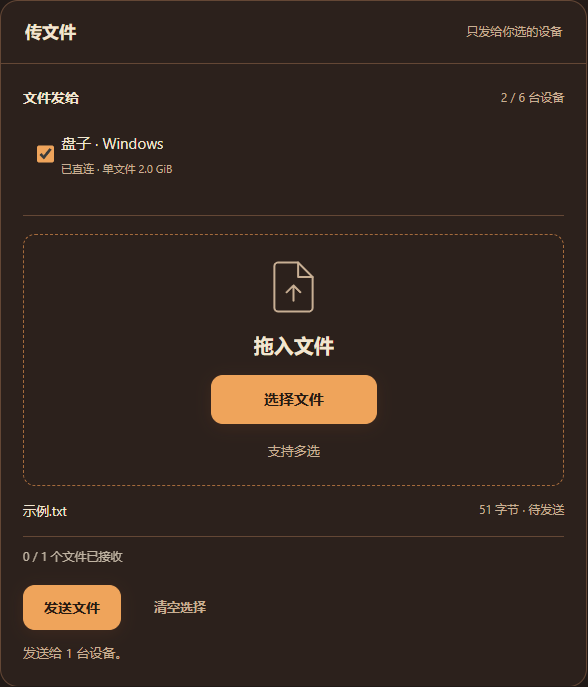
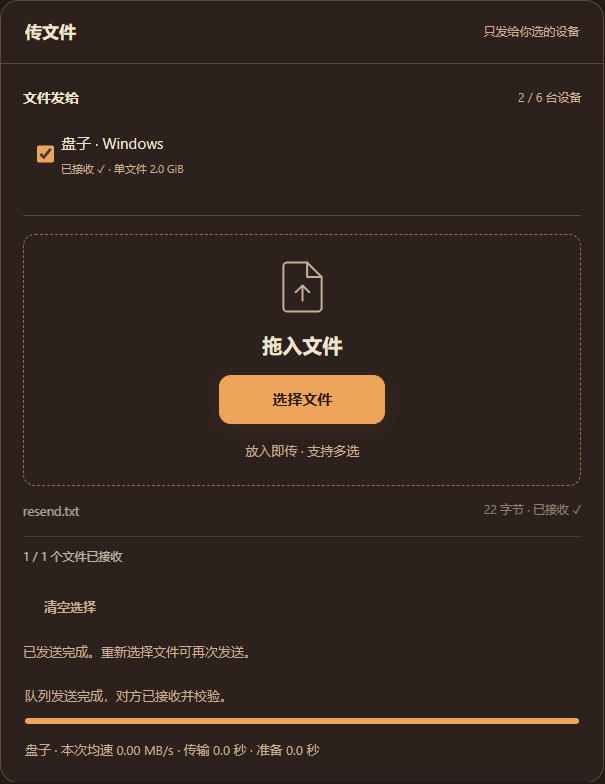
Publish automatic file sending and LAN homepage copy

diff --git a/index.html b/index.html
@@ -6,7 +6,7 @@
   <meta name="referrer" content="no-referrer"><meta charset="UTF-8"><meta name="viewport" content="width=device-width, initial-scale=1">
   <meta name="description" content="热热传：同一网络下，打开网页即可互传文件和文字。无需安装或注册，支持多设备配对。">
   <title>热热传 · 局域网文件互传</title><link rel="canonical" href="https://rerechuan.com/"><link rel="icon" href="./rere-symbol.svg">
-  <link rel="stylesheet" href="./workspace.css"><link rel="stylesheet" href="./ember.css"><link rel="stylesheet" href="./workspace-v8.css?v=20261029-pages"><script type="module" src="./workspace.js?v=0.8.1-pages1"></script>
+  <link rel="stylesheet" href="./workspace.css"><link rel="stylesheet" href="./ember.css"><link rel="stylesheet" href="./workspace-v8.css?v=20261029-autosend"><script type="module" src="./workspace.js?v=0.8.1-autosend1"></script>
 </head>
 <body data-theme="ember">
   <svg class="icon-definitions" aria-hidden="true" xmlns="http://www.w3.org/2000/svg"><defs>
@@ -18,7 +18,7 @@
   <div class="app-shell">
     <header class="topbar"><a class="brand" href="./"><img class="logo-dark" src="./rere-logo-dark.svg" alt="热热传" width="147" height="48"><img class="logo-light" src="./rere-logo-light.svg" alt="热热传" width="147" height="48"></a><div class="design-controls" hidden><a href="./styles.html">五种风格</a><label for="theme-select" class="sr-only">页面风格</label><select id="theme-select"><option value="warm">01 亲切工具</option><option value="minimal">02 极简白</option><option value="studio">03 创作工作台</option><option value="privacy">04 安静深色</option><option value="bold">05 鲜明品牌</option><option value="ember">炉火暖色 · 试稿</option></select></div><a class="site-help" href="./how-to-use.html" target="_blank" rel="noopener">使用说明</a></header>
     <main>
-      <section class="intro"><h1><span>创建房间，</span><span>互传文件和文字。</span></h1><canvas id="transfer-mark" class="transfer-mark" width="272" height="112" aria-hidden="true"></canvas></section>
+      <section class="intro"><h1><span>同一局域网，</span><span>文件直接传。</span></h1><p>局域网内传文件，不耗移动数据流量，不上传服务器。<br>打开网页和设备配对仍需联网。</p><canvas id="transfer-mark" class="transfer-mark" width="272" height="112" aria-hidden="true"></canvas></section>
       <section class="connect-bar" aria-labelledby="room-heading">
         <div class="room-title"><svg class="small-icon" aria-hidden="true"><use href="#icon-link"/></svg><div><h2 id="room-heading">连接身边的设备</h2><p>最多 6 台 · 同一网络</p></div></div>
         <button id="create-room" class="primary">创建房间</button>
@@ -39,8 +39,8 @@
         <section class="send-pane" aria-label="发送内容">
           <div class="section-heading"><h2>传文件</h2><span>只发给你选的设备</span></div>
           <div id="file-panel" class="panel-body"><section id="devices-panel" class="devices-panel" aria-label="房间中的设备" hidden><div class="devices-heading"><strong>文件发给</strong><span id="device-count"></span></div><div id="device-list" class="device-list"></div></section>
-            <div id="drop-zone" class="drop-zone"><svg class="upload-icon" aria-hidden="true"><use href="#icon-file"/></svg><h2>拖入文件</h2><label for="files" class="button primary picker-button">选择文件</label><input id="files" class="sr-only file-input" type="file" multiple><p class="drop-help">支持多选</p></div>
-            <ul id="file-list" class="file-list"></ul><p id="queue-summary" class="queue-summary" role="status"></p><div id="file-actions" class="actions" hidden><button id="send-files" class="primary" aria-describedby="file-send-hint" disabled>发送文件</button><button id="retry-files" class="secondary" hidden>重试未完成</button><button id="clear-files" class="quiet">清空选择</button></div><p id="file-send-hint" class="send-hint" role="status"></p>
+            <div id="drop-zone" class="drop-zone"><svg class="upload-icon" aria-hidden="true"><use href="#icon-file"/></svg><h2>拖入文件</h2><label for="files" class="button primary picker-button">选择文件</label><input id="files" class="sr-only file-input" type="file" multiple><p class="drop-help">放入即传 · 支持多选</p></div>
+            <ul id="file-list" class="file-list"></ul><p id="queue-summary" class="queue-summary" role="status"></p><div id="file-actions" class="actions" hidden><button id="retry-files" class="secondary" hidden>重试未完成</button><button id="clear-files" class="quiet">清空选择</button></div><p id="file-send-hint" class="send-hint" role="status"></p>
           </div>
           <div class="send-feedback" hidden><p id="send-status" role="status"></p><progress id="send-progress" max="100" value="0" hidden></progress><div id="send-rates"></div><button id="cancel-send" class="quiet" hidden>停止发送</button></div>
         </section>

diff --git a/how-to-use.html b/how-to-use.html
@@ -2,7 +2,7 @@
 <html lang="zh-CN"><head><meta charset="UTF-8"><meta name="viewport" content="width=device-width, initial-scale=1"><meta name="referrer" content="no-referrer"><title>热热传使用说明</title><meta name="description" content="用配对码或二维码连接设备，选择文件接收方，发送文字并保存文件。"><link rel="canonical" href="https://rerechuan.com/how-to-use.html"><link rel="icon" href="./rere-symbol.svg"><link rel="stylesheet" href="./site-pages.css"></head><body><header class="site-header"><a href="./" aria-label="热热传首页"><img src="./rere-logo-dark.svg" alt="热热传" width="147" height="48"></a><a class="back" href="./">返回传文件</a></header><main><article><h1>使用说明</h1>
 <p class="lead">两台设备连接同一网络，打开热热传。传输时保持双方页面打开。</p>
 <h2>1. 创建房间，连接另一台设备</h2><p>在任意一台设备上点击“创建房间”。另一台设备打开热热传，输入 6 位配对码；手机也可以扫描房间二维码。等待设备列表显示“已直连”。一个房间最多 6 台设备，可以点击“改名”区分设备。</p><figure><img src="./help/pair.png" alt="创建房间后显示六位配对码、设备名称和手机扫码入口" width="1120" height="389" loading="lazy"><figcaption>示意界面：每个房间的配对码不同。</figcaption></figure>
-<h2>2. 选接收设备，再发文件</h2><p>在“文件发给”中勾选接收设备，把文件拖进窗口，或点击“选择文件”。检查文件名后点击“发送文件”。可以选择多个接收设备；未勾选的设备不会收到该文件。页面会显示进度和 MB/s，准备校验耗时单独计算。</p><figure><img src="./help/send.png" alt="勾选接收设备并选择示例文件后，点击发送文件" width="588" height="687" loading="lazy"><figcaption>文件只发给勾选的设备。</figcaption></figure>
+<h2>2. 选好设备，放入文件</h2><p>在“文件发给”中勾选接收设备，把文件拖进窗口，或点击“选择文件”。文件选好后自动发送，无需再点确认；尚未连接时会等待连接。可以选择多个接收设备；未勾选的设备不会收到该文件。页面会显示进度和 MB/s，准备校验耗时单独计算。</p><figure><img src="./help/send.png" alt="勾选接收设备后，拖入或选择文件即自动发送" width="605" height="784" loading="lazy"><figcaption>文件只发给勾选的设备。</figcaption></figure>
 <h2>3. 在收件箱保存</h2><p>接收端自动接收并校验文件，不需要再确认。完成后点击“下载文件”，按浏览器提示保存。需要清理临时副本时点击收件箱“清空”；已经下载的文件不受影响。</p><figure><img src="./help/receive.png" alt="接收端收件箱显示文件名、发送设备、下载文件按钮和校验结果" width="588" height="273" loading="lazy"><figcaption>接收完成后，仍需点击下载保存到设备。</figcaption></figure>
 <h2>文字、链接和代码</h2><p>在“聊两句”中输入内容后点击“发送”。电脑上 Enter 发送，Shift+Enter 换行。文字发给房间内所有已连接的设备，文件传输时也能聊天。聊天记录仅保留在当前页面。</p>
 <h2>三个常见用法</h2><ul><li><strong>Windows 和 Mac 互传资料：</strong>输入配对码连接，勾选对方设备，把文档或压缩包发过去。</li><li><strong>手机照片传到电脑：</strong>手机扫码加入房间，选择照片，电脑收到后下载保存。部分网络下 Windows 与 iPhone 可能无法直连。</li><li><strong>几台设备共用一条链接：</strong>把链接发到聊天区，房间里的设备都能收到；文件仍可单独指定接收方。</li></ul>

diff --git a/workspace-v8.css b/workspace-v8.css
@@ -1,3 +1,4 @@
+.intro h1>span{display:inline-block}
 /* Codex / 2026-10-26. Persistent independent chat alongside selective file transfer. */
 .site-links{display:flex;gap:12px 20px;flex-wrap:wrap}.site-footer{display:block!important}.site-footer .footer-meta{display:flex;flex-wrap:wrap;gap:8px 20px;margin-top:14px;font-size:12px}.site-footer a{color:var(--muted);text-underline-offset:4px}.site-footer a:hover{color:var(--text)}.site-help{font-size:13px;color:var(--muted);margin-left:auto}.connection-extra:has(#connection-detail:empty){min-height:0;margin-block:8px}
 .brand img{display:block;width:139px;height:auto}.brand .logo-dark{display:none}
